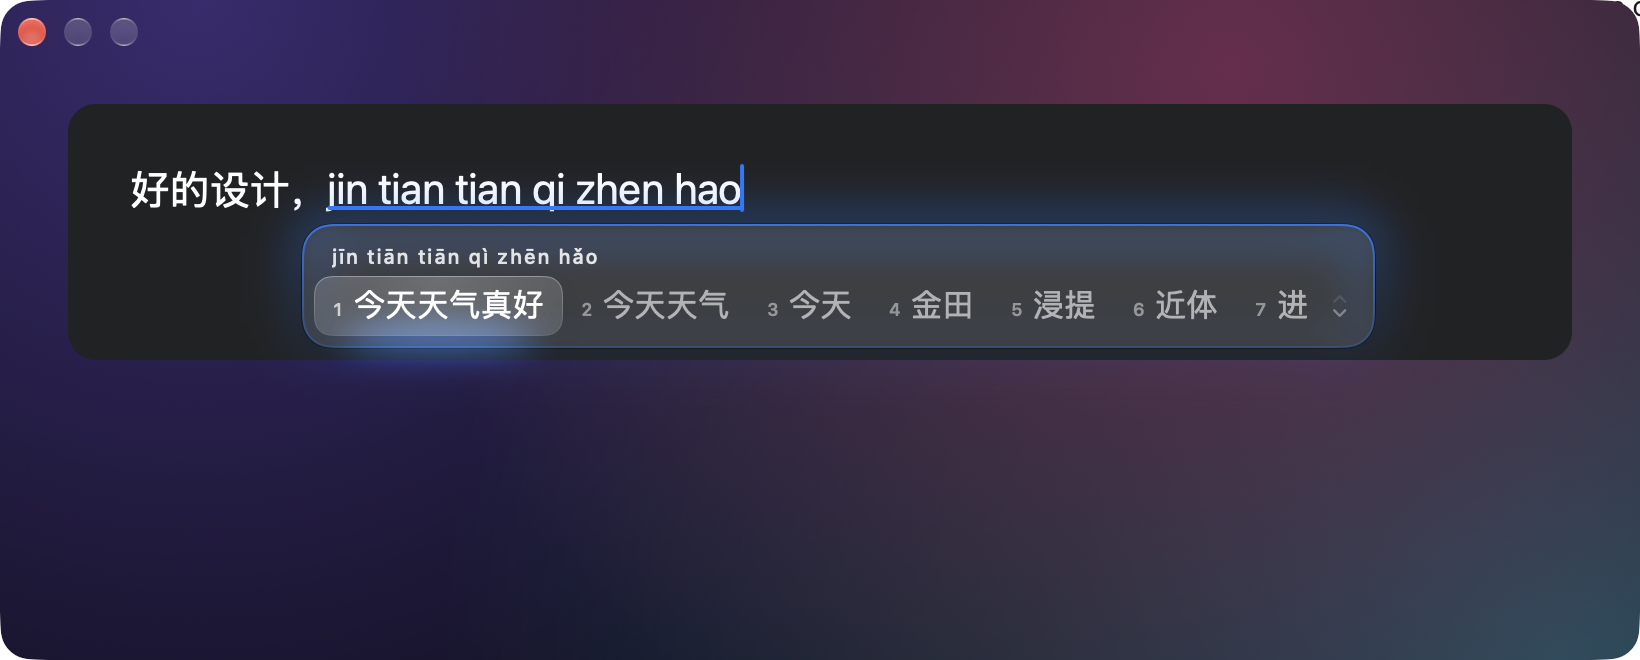
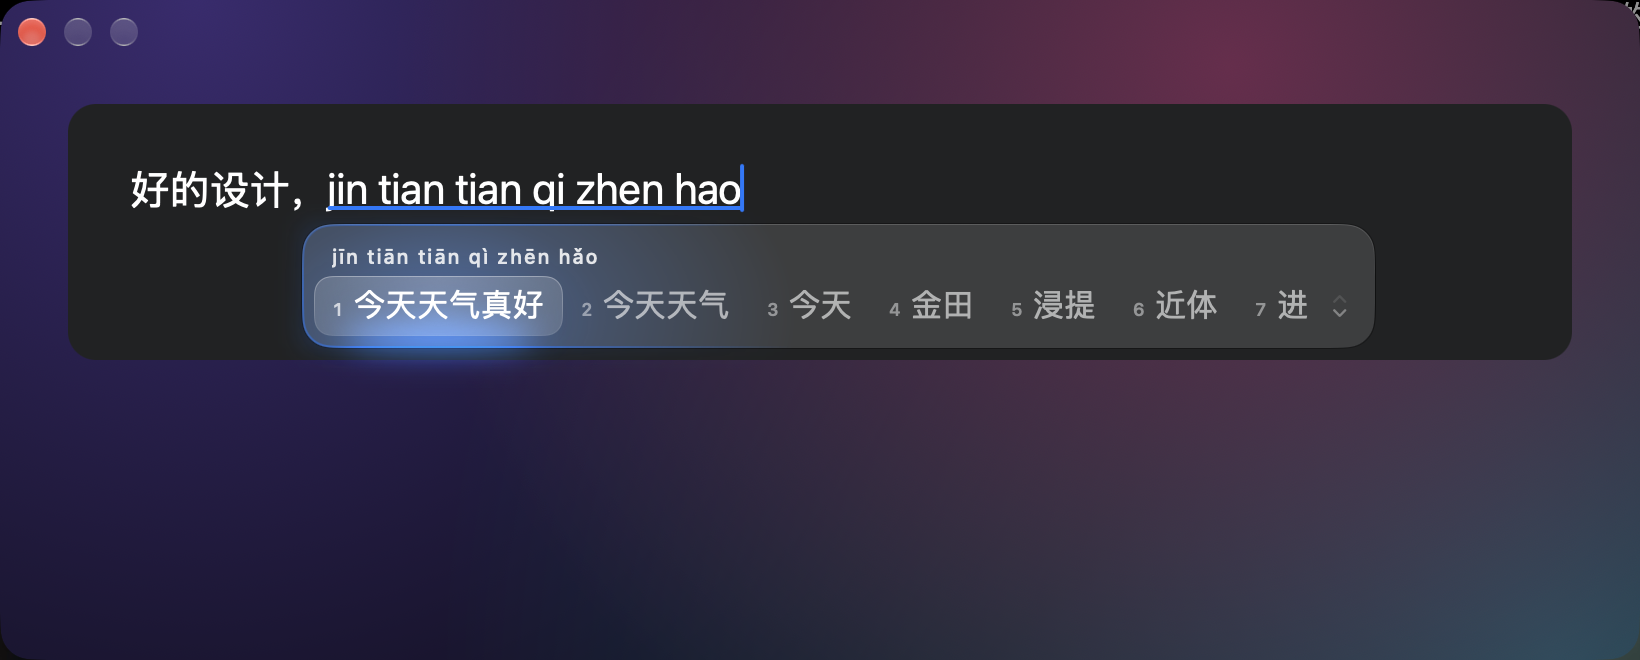
Luma 拼音 0.6.2: steady glow lit from the lens; panel no longer vanishes
- The candidate panel could vanish while typing. dismiss() overwrote
  hideWork without cancelling it, so two hides in a row (a commit, then a
  key that refreshes again, or an AI answer) left an order-out pending that
  show() didn't cancel; it fired under candidates being typed and the panel
  stayed off screen until the next key. dismiss() now cancels the pending
  one, and the order-out checks the panel wasn't shown again. Reproduced
  and verified with a harness driving show/hide/hide/show.
- Glow is lit from the lens instead of drawn around the edge: light pools in
  the glass around the chosen word, the rim catches it only where it falls
  (the pool masked by the rim), and a little escapes past the edge nearby.
  The pool springs after the lens as it moves. Flow's extra pools drift
  slowly through the glass; they're left off the small 中 / A switch.
- Steadier Flow: hues turn at one OKLCH lightness, so yellow and green no
  longer flare (idle hot-spot swing 41 → 6–8); the light that escapes the
  edge is drawn over the glass and outside it, so the glass no longer
  re-tints itself all at once; no flare on keystrokes. 12 s per turn; the
  pools are one drawingGroup at up to 60 fps.
- Light mode: paler hues and a softer coloured shadow under the lens.
- Version 0.6.2.

diff --git a/Sources/CandidatePanel.swift b/Sources/CandidatePanel.swift
@@ -155,7 +155,14 @@ final class CandidatePanel {
     private func dismiss() {
         guard model.visible || window.isVisible else { return }
         withAnimation(.easeIn(duration: 0.12)) { model.visible = false }
-        let work = DispatchWorkItem { [weak self] in self?.window.orderOut(nil) }
+        // Two hides in a row (a commit, then a key that refreshes again) must not leave the first
+        // order-out pending: show() cancels only the latest, and the stray one would take the panel
+        // off screen under candidates still being typed. Check again when it fires, too.
+        hideWork?.cancel()
+        let work = DispatchWorkItem { [weak self] in
+            guard let self, !self.model.visible else { return }
+            self.window.orderOut(nil)
+        }
         hideWork = work
         DispatchQueue.main.asyncAfter(deadline: .now() + 0.16, execute: work)
     }
@@ -290,13 +297,19 @@ private struct CandidateBar: View {
             model.barGrowing = newSize.width > model.barSize.width
             model.barSize = newSize
         }
-        .background(alignment: model.flipped ? .bottomLeading : .topLeading) {
-            GlassPlate(style: s, radius: s.radius, motion: motion)
-                .frame(width: model.barSize.width, height: model.barSize.height)
-                // Grow quickly so text never spills outside; settle gently when shrinking.
-                .animation(model.reduceMotion ? nil
-                           : .spring(response: model.barGrowing ? 0.16 : 0.32, dampingFraction: 1),
-                           value: model.barSize)
+        // Read the lens's place at the bar's level, so the glass knows where its light comes from.
+        .backgroundPreferenceValue(CellFrameKey.self) { anchors in
+            GeometryReader { proxy in
+                GlassPlate(style: s, radius: s.radius, motion: motion,
+                           light: anchors[model.highlighted].map { proxy[$0] })
+                    .frame(width: model.barSize.width, height: model.barSize.height)
+                    // Grow quickly so text never spills outside; settle gently when shrinking.
+                    .animation(model.reduceMotion ? nil
+                               : .spring(response: model.barGrowing ? 0.16 : 0.32, dampingFraction: 1),
+                               value: model.barSize)
+                    .frame(width: proxy.size.width, height: proxy.size.height,
+                           alignment: model.flipped ? .bottomLeading : .topLeading)
+            }
         }
     }
 
@@ -320,11 +333,8 @@ private struct CandidateBar: View {
             GeometryReader { proxy in
                 if let anchor = anchors[model.highlighted] {
                     let rect = proxy[anchor]
-                    // Where the lens's glow meets the bar's lower edge, so 流光 can tint it to match.
-                    let glowPoint = CGPoint(x: s.outerPadding.leading + rect.midX, y: model.barSize.height - s.outerPadding.bottom)
                     // Concentric with the bar: its radius less the inset between them.
-                    Lens(size: rect.size, radius: s.radius - s.outerPadding.bottom, style: s, motion: motion,
-                         glowAngle: Spectrum.angle(of: glowPoint, in: model.barSize))
+                    Lens(size: rect.size, radius: s.radius - s.outerPadding.bottom, style: s, motion: motion)
                         .offset(x: rect.minX, y: rect.minY)
                         .animation(glide, value: model.moveToken)
                 }
@@ -430,23 +440,21 @@ private struct PageMark: View {
 
 // MARK: - Lens
 
-/// The lens of light under the glass that marks the current choice. Its glow takes the 光效's colour:
-/// 柔光's tint, or whichever of 流光's hues is passing the edge beneath it.
+/// The lens of light under the glass that marks the current choice. With a 光效 it is the light's
+/// source: its glow takes 柔光's tint, or the hue 流光 is passing through.
 private struct Lens: View {
     let size: CGSize
     let radius: CGFloat
     let style: LumenStyle
     let motion: FlowMotion
-    /// Where the glow sits on the surrounding glass, in AngularGradient degrees from its centre.
-    let glowAngle: Double
 
     var body: some View {
         switch style.effect {
         case .off: lens(glow: nil)
         case .soft: lens(glow: style.tint)
         case .flow:
-            TimelineView(.animation(paused: motion.paused)) { context in
-                lens(glow: Spectrum.color(atAngle: glowAngle, phase: motion.phase(context.date), dark: style.dark))
+            TimelineView(.animation(minimumInterval: 1.0 / 60, paused: motion.paused)) { context in
+                lens(glow: Spectrum.color(at: motion.time(context.date) / Spectrum.period, dark: style.dark))
             }
         }
     }
@@ -483,7 +491,7 @@ private struct Lens: View {
                 shape
                     .fill(LinearGradient(colors: [.white, .white.opacity(0.84)], startPoint: .top, endPoint: .bottom))
                     .overlay { shape.strokeBorder(Color.black.opacity(s.border ? 0.5 : 0.05), lineWidth: s.border ? 1 : 0.5) }
-                    .shadow(color: glow.map { $0.opacity(s.bloom ? 0.45 : 0.22) } ?? Color(hex: 0x281E5A, opacity: 0.22),
+                    .shadow(color: glow.map { $0.opacity(s.bloom ? 0.3 : 0.18) } ?? Color(hex: 0x281E5A, opacity: 0.22),
                             radius: 9, y: 5)
                     .shadow(color: .black.opacity(0.04), radius: 0.5, y: 0.5)
             }
@@ -508,19 +516,19 @@ private struct ToastView: View {
         let motion = FlowMotion(style: s, reduceMotion: model.reduceMotion, shown: model.visible)
         let segment = Self.segment, inset = Self.inset
         let lensX = model.toastChinese ? 0 : segment.width
-        let size = CGSize(width: segment.width * 2 + inset * 2, height: segment.height + inset * 2)
-        let glowPoint = CGPoint(x: inset + lensX + segment.width / 2, y: size.height - inset)
         HStack(spacing: 0) {
             glyph("中", font: .system(size: 12.5, weight: .medium), on: model.toastChinese, s)
             glyph("A", font: .system(size: 12, weight: .semibold, design: .rounded), on: !model.toastChinese, s)
         }
         .background(alignment: .leading) {
-            Lens(size: segment, radius: segment.height / 2, style: s, motion: motion,
-                 glowAngle: Spectrum.angle(of: glowPoint, in: size))
+            Lens(size: segment, radius: segment.height / 2, style: s, motion: motion)
                 .offset(x: lensX)
         }
         .padding(inset)
-        .background { GlassPlate(style: s, radius: segment.height / 2 + inset, motion: motion) }
+        .background {
+            GlassPlate(style: s, radius: segment.height / 2 + inset, motion: motion,
+                       light: CGRect(origin: CGPoint(x: inset + lensX, y: inset), size: segment))
+        }
         .accessibilityElement(children: .ignore)
         .accessibilityLabel(model.toastChinese ? "中文" : "English")
     }
@@ -535,112 +543,150 @@ private struct ToastView: View {
 
 // MARK: - Materials
 
-/// The glass with its 光效: a bloom of light behind it and a rim of light along its edge.
+/// The glass, lit by its 光效 from within. The lens is the light's source: light pools in the glass
+/// around it, the rim catches it only where it falls, and a little escapes past the edge nearby.
+/// The light drifts after the lens as it moves; it doesn't flare with keystrokes, so it stays steady.
 private struct GlassPlate: View {
     let style: LumenStyle
     let radius: CGFloat
     let motion: FlowMotion
+    /// The lens, in the plate's coordinates.
+    var light: CGRect?
 
     var body: some View {
-        ZStack {
-            if style.effect != .off && style.bloom {
-                EdgeLight(part: .bloom, radius: radius, style: style, motion: motion)
+        if style.effect == .flow {
+            TimelineView(.animation(minimumInterval: 1.0 / 60, paused: motion.paused)) { context in
+                plate(time: motion.time(context.date))
             }
-            GlassBackground(style: style, radius: radius)
-            if style.effect != .off {
-                EdgeLight(part: .rim, radius: radius, style: style, motion: motion)
+        } else {
+            plate(time: 0)
+        }
+    }
+
+    private func plate(time: TimeInterval) -> some View {
+        let s = style
+        let shape = RoundedRectangle(cornerRadius: radius, style: .continuous)
+        let pool = LightPool(style: s, light: light, time: time)
+            .animation(motion.reduceMotion ? nil : .spring(response: 0.55, dampingFraction: 0.9), value: light)
+        return ZStack {
+            GlassBackground(style: s, radius: radius)
+            if s.effect != .off && s.bloom {
+                // Light escaping the glass, only near where it pools. It lies over the glass and only
+                // outside it: underneath, the glass would sample it and re-tint itself all at once
+                // whenever the light crossed its threshold, a sudden brightening of the whole panel.
+                pool.mask { shape.stroke(lineWidth: 10).blur(radius: 6) }
+                    .blur(radius: 6)
+                    .mask {
+                        ZStack {
+                            Rectangle().padding(-CandidatePanel.margin)
+                            shape.blendMode(.destinationOut)
+                        }
+                        .compositingGroup()
+                    }
+                    .opacity(s.dark ? 0.7 : 0.45)
+            }
+            if s.effect != .off {
+                Group {
+                    if s.bloom {
+                        pool.clipShape(shape)
+                            .blendMode(s.dark ? .plusLighter : .normal)
+                            .opacity(s.dark ? 0.42 : 0.26)
+                    }
+                    // The rim catches the light where it falls, and stays dark elsewhere.
+                    pool.mask { shape.strokeBorder(lineWidth: 1) }
+                        .opacity(s.dark ? 1 : 0.85)
+                }
             }
         }
     }
 }
 
-/// 柔光: one colour, brightest along the top edge, as if lit from above.
-/// 流光: a loop of hues turning slowly around the edge.
-private struct EdgeLight: View {
-    enum Part { case bloom, rim }
-
-    let part: Part
-    let radius: CGFloat
+/// Soft pools of light in the glass: one around the lens, and for 流光 two more in the hues to
+/// come, drifting slowly through the glass like an aurora.
+private struct LightPool: View {
     let style: LumenStyle
-    let motion: FlowMotion
+    let light: CGRect?
+    let time: TimeInterval
 
     var body: some View {
-        if style.effect == .flow {
-            TimelineView(.animation(paused: motion.paused)) { context in
-                edge(Spectrum.paint(phase: motion.phase(context.date), dark: style.dark))
+        GeometryReader { proxy in
+            let size = proxy.size
+            let lens = light ?? CGRect(x: size.width * 0.15, y: 0, width: min(80, size.width * 0.3), height: size.height)
+            let source = CGPoint(x: lens.midX, y: lens.midY + lens.height * 0.15)
+            let turn = time / Spectrum.period
+            // Sized to the glass, so a small plate (the 中 / A switch) isn't flooded.
+            let reach = max(lens.width * 0.9, min(48, size.height * 0.9))
+            ZStack {
+                if style.effect == .flow {
+                    // The drifting pools need room; on the small switch the lens's light is enough.
+                    ForEach(size.width > 120 ? 1..<3 : 1..<1, id: \.self) { k in
+                        let drift = time * 2 * .pi
+                        let at = CGPoint(x: size.width * (0.5 + 0.42 * sin(drift / (17 + 5 * Double(k)) + 2.4 * Double(k))),
+                                         y: size.height * (0.5 + 0.3 * cos(drift / (13 + 4 * Double(k)) + Double(k))))
+                        glow(Spectrum.color(at: turn + Double(k) / 3, dark: style.dark), at: at,
+                             radius: size.height * 1.1, strength: 0.55)
+                    }
+                    glow(Spectrum.color(at: turn, dark: style.dark), at: source, radius: reach, strength: 1)
+                } else {
+                    glow(style.tint, at: source, radius: reach, strength: 1)
+                }
             }
-        } else {
-            edge(AnyShapeStyle(LinearGradient(colors: [style.tint, style.tint.opacity(0.3)],
-                                              startPoint: .top, endPoint: .bottom)))
         }
+        // One layer on the GPU instead of several gradients composited every frame.
+        .drawingGroup()
     }
 
-    @ViewBuilder
-    private func edge(_ paint: AnyShapeStyle) -> some View {
-        let shape = RoundedRectangle(cornerRadius: radius, style: .continuous)
-        switch part {
-        case .bloom:
-            shape.stroke(paint, lineWidth: 8)
-                .blur(radius: 12)
-                .opacity(style.dark ? 0.75 : 0.45)
-        case .rim:
-            shape.strokeBorder(paint, lineWidth: 1)
-                .opacity(style.dark ? 0.85 : 0.75)
-        }
+    /// A pool of `color`, widest along the glass, fading to nothing at `radius`.
+    private func glow(_ color: Color, at point: CGPoint, radius: CGFloat, strength: Double) -> some View {
+        Circle()
+            .fill(RadialGradient(stops: [.init(color: color.opacity(strength), location: 0),
+                                         .init(color: color.opacity(strength * 0.4), location: 0.45),
+                                         .init(color: color.opacity(0), location: 1)],
+                                 center: .center, startRadius: 0, endRadius: radius))
+            .frame(width: radius * 2, height: radius * 2)
+            .scaleEffect(x: 1.6, y: 1)
+            .position(point)
     }
 }
 
 /// Whether 流光 is moving: only while the panel is up, and never under Reduce Motion or Reduce
-/// Bright Effects (then the hues hold still).
+/// Bright Effects (then the light holds still).
 struct FlowMotion {
     let moving: Bool
     let shown: Bool
+    let reduceMotion: Bool
 
     init(style: LumenStyle, reduceMotion: Bool, shown: Bool) {
         moving = style.effect == .flow && style.bloom && !reduceMotion
         self.shown = shown
+        self.reduceMotion = reduceMotion
     }
 
     var paused: Bool { !moving || !shown }
 
-    func phase(_ date: Date) -> Double { moving ? Spectrum.phase(date) : 0 }
+    /// The flow's clock, in seconds; held at zero while it isn't moving.
+    func time(_ date: Date) -> TimeInterval { moving ? date.timeIntervalSinceReferenceDate : 0 }
 }
 
-/// 流光's colours: soft, luminous hues in a loop, one turn around the glass every few seconds.
+/// 流光's colours: the whole colour wheel at one perceived lightness (OKLCH), a full turn every
+/// few seconds. Equal lightness keeps the glow steady: yellow and green no longer flare brighter
+/// than blue and violet as the hues go round.
 enum Spectrum {
-    static let period: TimeInterval = 9
-    private static let darkHues: [UInt32] = [0xFF6A88, 0xFFB25E, 0x5EE6B0, 0x5EC8FF, 0x7A8CFF, 0xC77DFF]
-    private static let lightHues: [UInt32] = [0xF0446E, 0xF08A2E, 0x1FB585, 0x2E9EF0, 0x5468F0, 0xA44DF0]
+    static let period: TimeInterval = 12
 
-    static func phase(_ date: Date) -> Double {
-        date.timeIntervalSinceReferenceDate.truncatingRemainder(dividingBy: period) / period
-    }
-
-    static func paint(phase: Double, dark: Bool) -> AnyShapeStyle {
-        let hues = dark ? darkHues : lightHues
-        return AnyShapeStyle(AngularGradient(colors: (hues + [hues[0]]).map { Color(hex: $0) },
-                                             center: .center, angle: .degrees(phase * 360)))
-    }
-
-    /// The colour `paint(phase:dark:)` shows at `angle`, in degrees clockwise from the trailing edge.
-    static func color(atAngle angle: Double, phase: Double, dark: Bool) -> Color {
-        let hues = dark ? darkHues : lightHues
-        var turn = (angle / 360 - phase).truncatingRemainder(dividingBy: 1)
-        if turn < 0 { turn += 1 }
-        let position = turn * Double(hues.count)
-        let i = Int(position) % hues.count
-        let t = position - position.rounded(.down)
-        func channel(_ hex: UInt32, _ shift: UInt32) -> Double { Double((hex >> shift) & 0xff) / 255 }
-        let a = hues[i], b = hues[(i + 1) % hues.count]
-        return Color(.sRGB,
-                     red: channel(a, 16) + (channel(b, 16) - channel(a, 16)) * t,
-                     green: channel(a, 8) + (channel(b, 8) - channel(a, 8)) * t,
-                     blue: channel(a, 0) + (channel(b, 0) - channel(a, 0)) * t)
-    }
-
-    /// The angle of `point` from the centre of a box of `size`, measured as AngularGradient does.
-    static func angle(of point: CGPoint, in size: CGSize) -> Double {
-        atan2(point.y - size.height / 2, point.x - size.width / 2) * 180 / .pi
+    /// The colour `turn` of the way round the wheel (any number; only the fraction counts).
+    static func color(at turn: Double, dark: Bool) -> Color {
+        let (lightness, chroma) = dark ? (0.76, 0.13) : (0.78, 0.12)
+        let hue = turn * 2 * .pi
+        let a = chroma * cos(hue), b = chroma * sin(hue)
+        let l = pow(lightness + 0.3963377774 * a + 0.2158037573 * b, 3)
+        let m = pow(lightness - 0.1055613458 * a - 0.0638541728 * b, 3)
+        let s = pow(lightness - 0.0894841775 * a - 1.2914855480 * b, 3)
+        func clamp(_ v: Double) -> Double { min(max(v, 0), 1) }
+        return Color(.sRGBLinear,
+                     red: clamp(4.0767416621 * l - 3.3077115913 * m + 0.2309699292 * s),
+                     green: clamp(-1.2684380046 * l + 2.6097574011 * m - 0.3413193965 * s),
+                     blue: clamp(-0.0041960863 * l - 0.7034186147 * m + 1.7076147010 * s))
     }
 }
 

diff --git a/README.md b/README.md
@@ -28,7 +28,7 @@ Liquid Glass 玻璃材质，选中项像一枚透镜。按 Shift 切换中 / 英
 | <img src="docs/images/lumen-dark.png" width="360"> | <img src="docs/images/lumen-light.png" width="360"> |
 | <img src="docs/images/toast-dark.png" width="360"> | <img src="docs/images/toast-light.png" width="360"> |
 
-**光效**：在输入法菜单「光效」中选择，默认「无」。**柔光**是一道单色的边缘光，上沿最亮，颜色跟随「系统设置 → 外观 → 强调色」；**流光**是一圈柔和的色彩绕着玻璃边缘缓缓流动，透镜下的光随身边经过的颜色变化。光只在玻璃边缘和透镜下，不在文字后面；流光只在候选栏显示时流动，开启「减弱动态效果」时静止，开启「减少明亮效果」时只留细边。
+**光效**：在输入法菜单「光效」中选择，默认「无」。选中词下的透镜就是光源：光在玻璃里围绕它晕开，玻璃边缘只在光照到的地方亮起，透镜移动时光随之缓缓跟过去。**柔光**是单色的光，颜色跟随「系统设置 → 外观 → 强调色」；**流光**是几团柔和的色光在玻璃里缓缓漂移，所有颜色亮度一致，不会忽明忽暗。流光只在候选栏显示时流动，开启「减弱动态效果」时静止，开启「减少明亮效果」时只留被照亮的那段边缘。
 
 | 柔光 | 流光 |
 |---|---|
@@ -180,7 +180,7 @@ Liquid Glass, with the selection as a lens of light. When Shift switches between
 | <img src="docs/images/lumen-dark.png" width="360"> | <img src="docs/images/lumen-light.png" width="360"> |
 | <img src="docs/images/toast-dark.png" width="360"> | <img src="docs/images/toast-light.png" width="360"> |
 
-**Glow**: choose it under 光效 in the input menu; it's off by default. **柔光 Soft** is a single-colour rim of light, brightest along the top, in the accent colour from System Settings → Appearance. **流光 Flow** is a ring of soft colours drifting around the edge of the glass, with the glow under the lens taking the colour passing beside it. The light stays on the edge and under the lens, never behind the text; Flow moves only while the candidates are showing, holds still under Reduce Motion, and keeps just the thin rim under Reduce Bright Effects.
+**Glow**: choose it under 光效 in the input menu; it's off by default. The lens under the chosen word is the light's source: light pools in the glass around it, the edge lights up only where the light falls, and the light drifts after the lens as it moves. **柔光 Soft** is a single colour, the accent colour from System Settings → Appearance. **流光 Flow** is a few soft pools of colour drifting through the glass, every hue at the same brightness so nothing flares. Flow moves only while the candidates are showing, holds still under Reduce Motion, and keeps just the lit part of the edge under Reduce Bright Effects.
 
 | Soft | Flow |
 |---|---|
